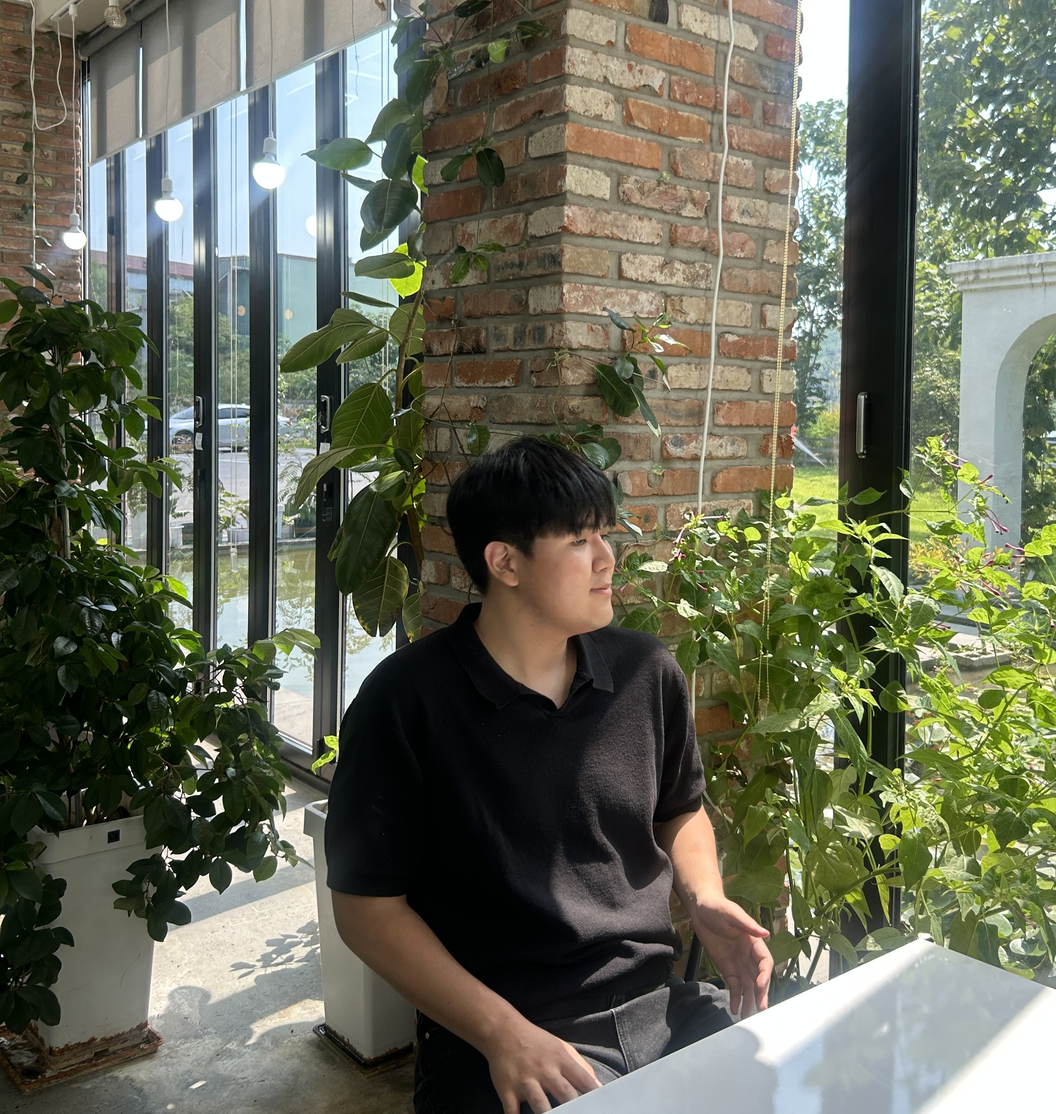
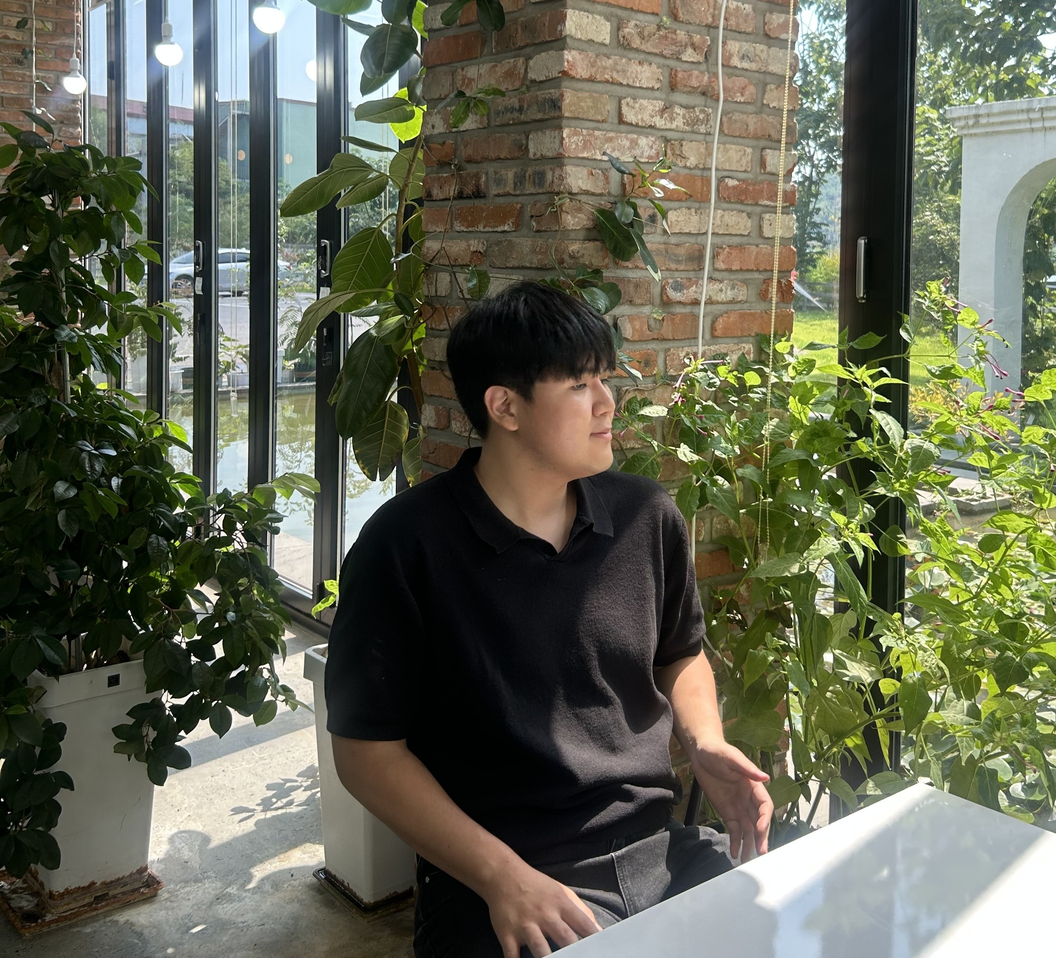
content: 서준이 사진 조정1

diff --git a/_members/seojun-ban.md b/_members/seojun-ban.md
@@ -6,7 +6,7 @@ group: students     # pi / students / alumni
 role: TD Team
 
 photo_by_term:
-  "2026-summer": /assets/img/members/2026-summer/반서준.jpg
+  "2026-summer": /assets/img/members/2026-summer/반서준.jp
 terms:
   - "2026-summer"
 
